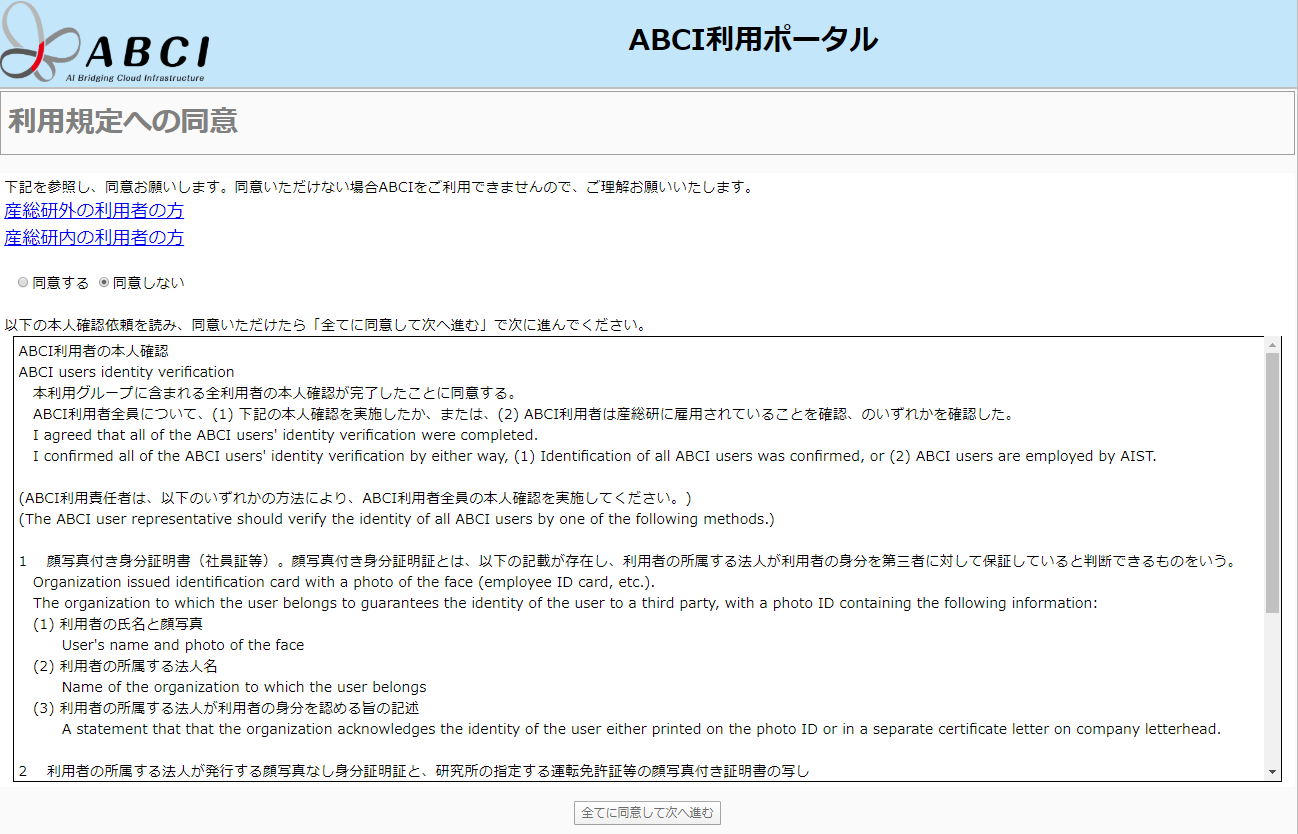
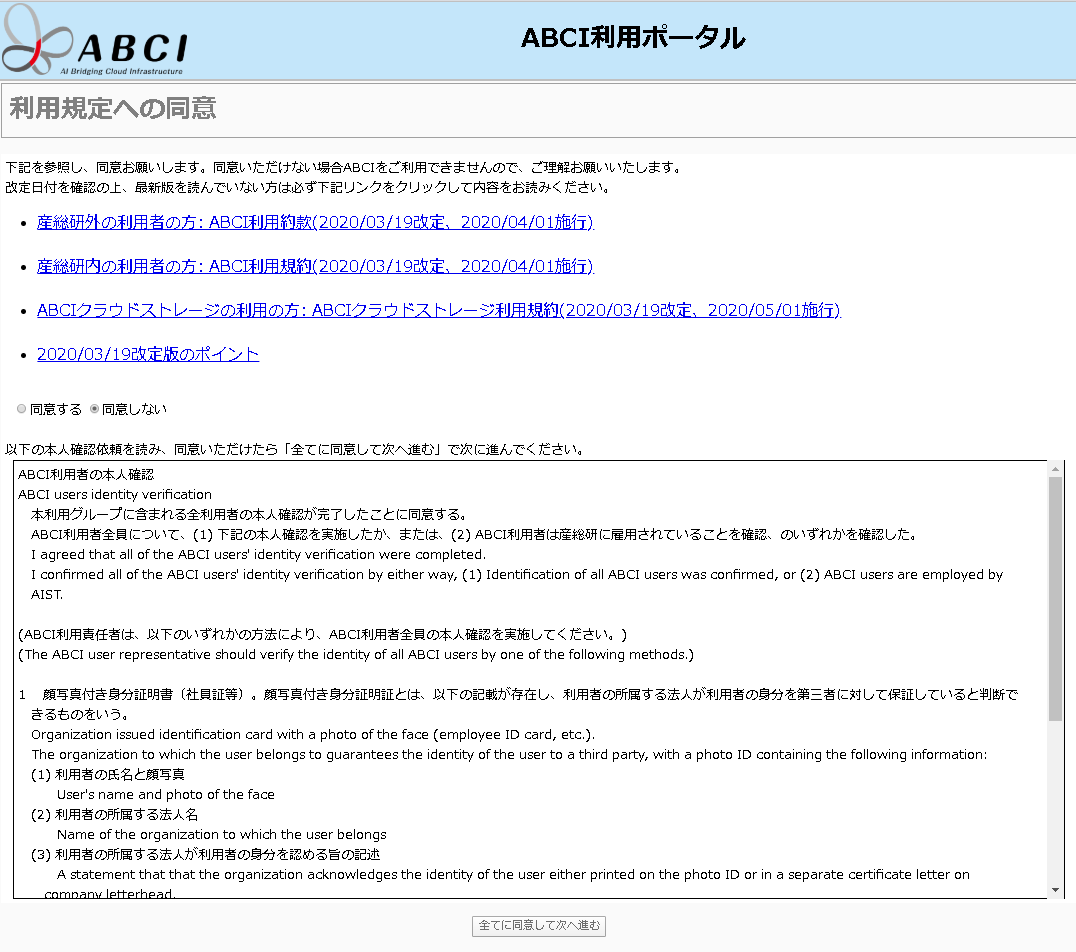
amended abci-user-manual for portal

diff --git a/portal/en/docs/02.md b/portal/en/docs/02.md
@@ -28,6 +28,13 @@ Enter your ABCI account and password, and click the "Login" button.
 When you login for the first time, the terms of use is displayed.
 Refer to the terms of use and click the "I agree with all and move to the next" button if you agree.
 
+!!! note
+	Terms are also available on abci.ai.  
+	https://abci.ai/en/link/download_etc.html  
+	
+	If the terms of use are amended, a confirmation screen may be displayed again.  
+	
+
 ![[[Screenshot]]](img/2_05.png)
 
 Enter current password and new password, and click the "Change" button.
@@ -180,6 +187,10 @@ Click "Add CS Account" button on the screen.
 ![[[Screenshot]]](img/2_21.png)
 
 Refer to the terms of use and click the "I agree with all and move on to the next" button if you agree.
+
+!!! note
+	Terms are also available on abci.ai.  
+	https://abci.ai/en/link/download_etc.html
 
 ![[[Screenshot]]](img/2_22.png)
 

diff --git a/portal/ja/docs/01.md b/portal/ja/docs/01.md
@@ -7,7 +7,11 @@
 ![[[Screenshot]]](img/1_01_A.png)
 
 利用規定を参照し、同意する場合は[同意する]を選択します。  
-また、本人確認依頼を参照し、同意する場合は[全てに同意して次へ進む]をクリックします。
+また、本人確認依頼を参照し、同意する場合は[全てに同意して次へ進む]をクリックします。  
+
+!!! note
+    規約は、abci.aiでも公開しております。  
+    https://abci.ai/ja/link/download_etc.html
 
 ## 1.2. 申請種別選択
  

diff --git a/portal/en/docs/01.md b/portal/en/docs/01.md
@@ -9,6 +9,10 @@ Access [New Application](https://portal.abci.ai/user/project_register_app.php?la
 Refer to the terms of use and select "Agree" if you agree.
 In addition, refer to the identity confirmation request, and click "I agree with all and move on to the next" if you agree.
 
+!!! note
+	Terms are also available on abci.ai.  
+	https://abci.ai/en/link/download_etc.html
+
 ## 1.2. Apply for group
  
 ![[[Screenshot]]](img/1_02.png)
